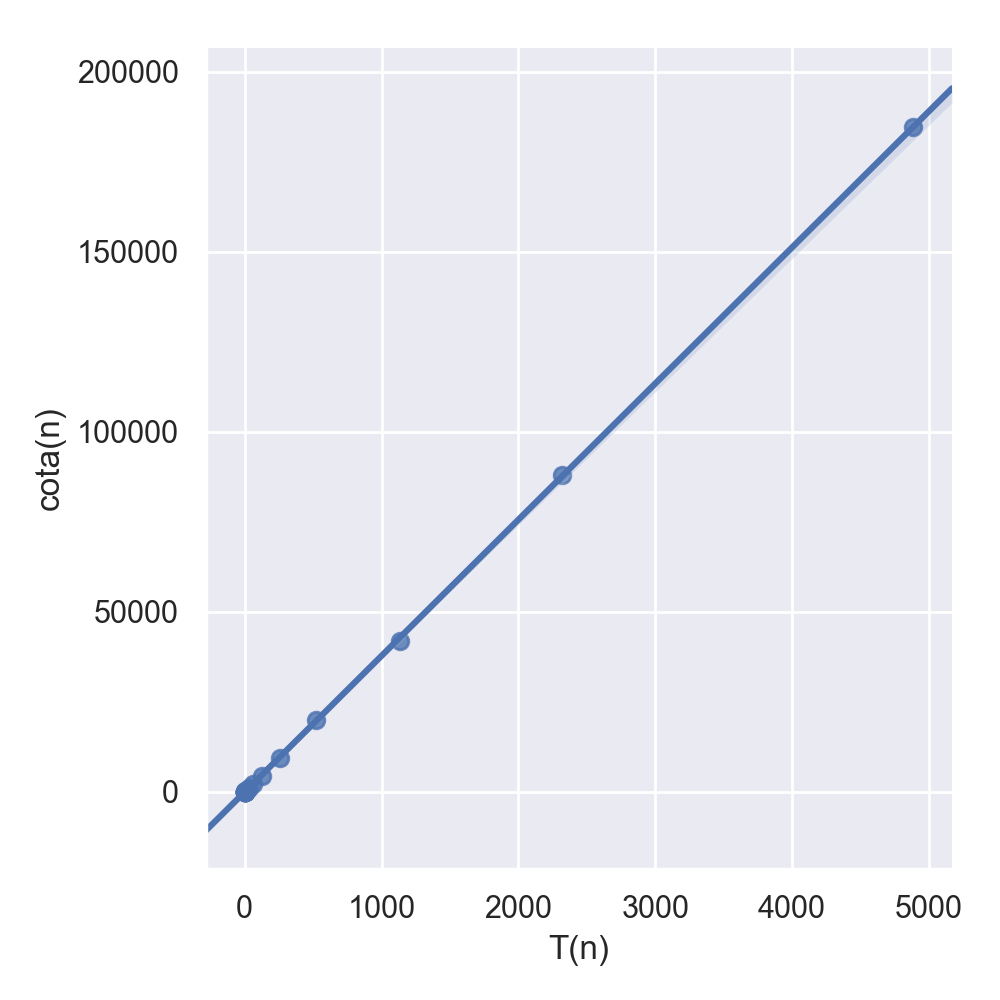
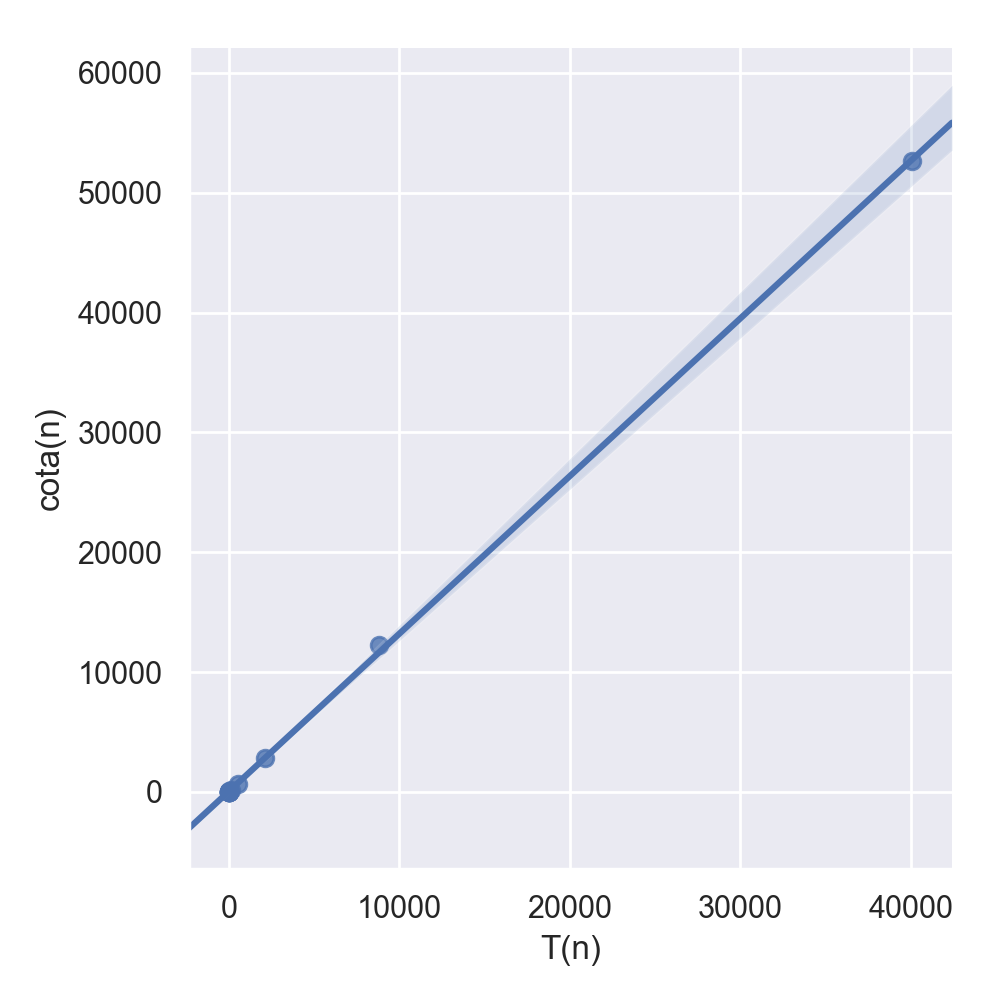
graficos

diff --git a/exp/fb/fb_exp_plotter.py b/exp/fb/fb_exp_plotter.py
@@ -9,7 +9,7 @@ df = pd.read_csv("times_fuerzaBruta_n30.csv")
 
 # Nano -> Milli
 df['time']  /= 1000000.0
-df['teorica'] = 0.001*df['n'] * 2**(df['n'])
+df['teorica'] = 0.000007*df['n'] * 2**(df['n'])
 
 df.plot('n', ['time', 'teorica'])
 
